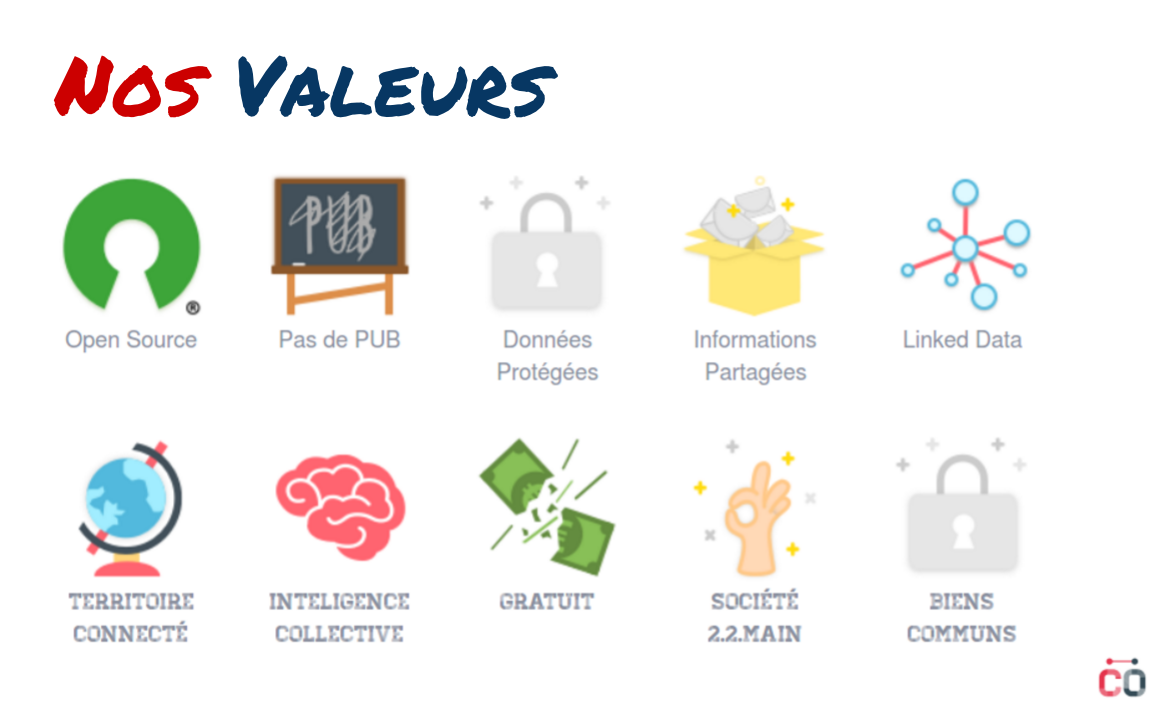
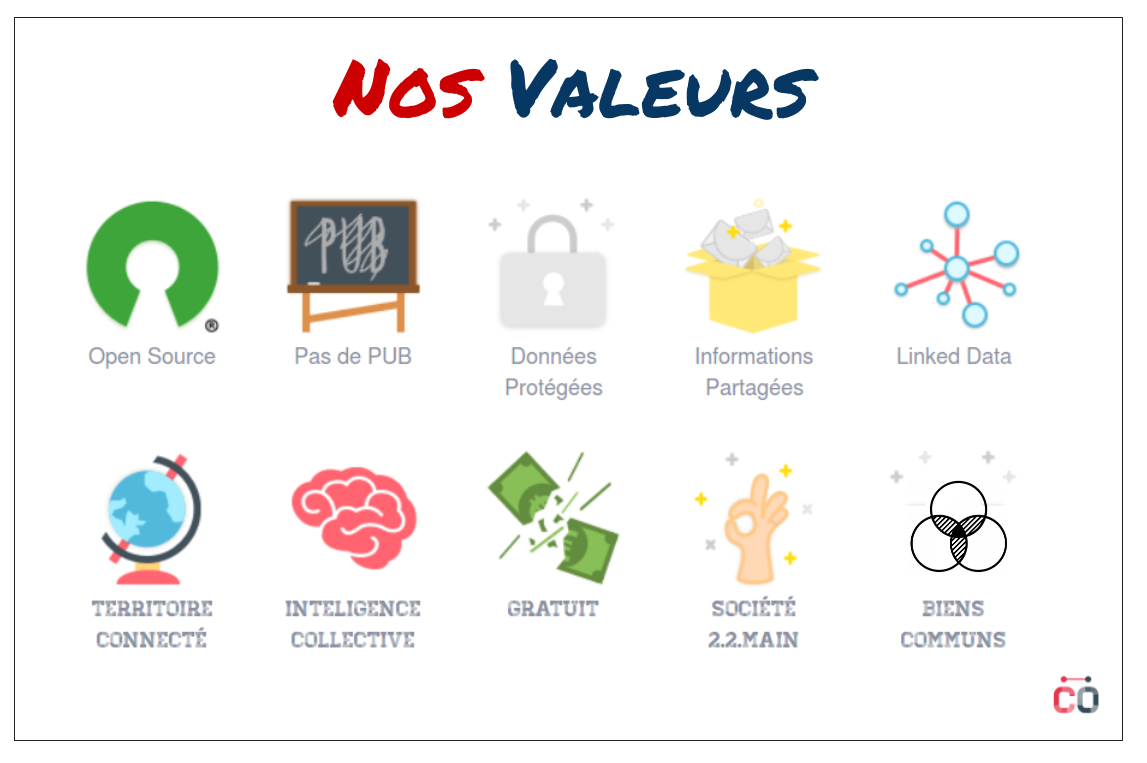
Modification des valeurs

diff --git a/views/default/home.php b/views/default/home.php
@@ -485,7 +485,7 @@ a.btn.btn-github:hover{	color: #4078C0;	border-color: #4078C0;}
                 <div class=" col-md-2"><img class="img-responsive" style="margin:0 auto;" src="<?php echo $this->module->assetsUrl; ?>/images/home/valeurs/valeur07.png"/>Inteligence Collective</div>
                 <div class=" col-md-2"><img class="img-responsive" style="margin:0 auto;" src="<?php echo $this->module->assetsUrl; ?>/images/home/valeurs/valeur08.png"/>Gratuit</div>
                 <div class=" col-md-2"><img class="img-responsive" style="margin:0 auto;" src="<?php echo $this->module->assetsUrl; ?>/images/home/valeurs/valeur09.png"/>Société 2.2.main</div>
-                <div class=" col-md-2"><img class="img-responsive" style="margin:0 auto;" src="<?php echo $this->module->assetsUrl; ?>/images/home/valeurs/valeur03.png"/>Biens Communs</div>
+                <div class=" col-md-2"><img class="img-responsive" style="margin:0 auto;" src="<?php echo $this->module->assetsUrl; ?>/images/home/valeurs/valeur10.png"/>Biens Communs</div>
             </div>
             <div class="space20"></div>
 	</div>
